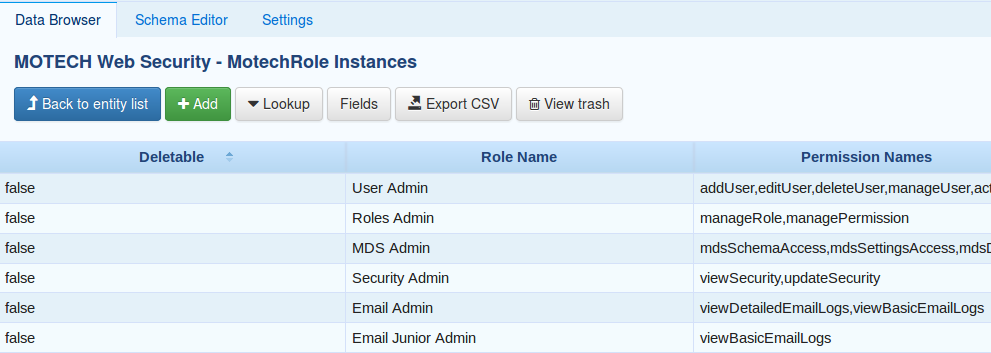
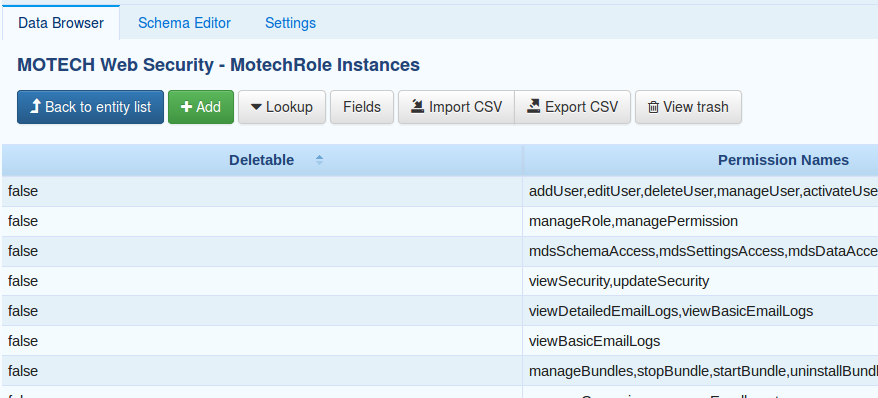
Fix broken table in modeling data with MDS topic
This fixes a broken table in the Modeling data with MDS topic.
I've also updated a picture of the data browser, to reflect
latest change (button Import CSV)

diff --git a/docs/source/get_started/model_data/model_data.rst b/docs/source/get_started/model_data/model_data.rst
@@ -1110,7 +1110,7 @@ you can perform several operations on the instances.
 +======================+=============================================================================================+
 |Back to entity list   |Brings you back to the main data browser view, listing entities                              |
 +----------------------+---------------------------------------------------------------------------------------------+
-|Add                   |Brings you to the Add instance dialog, where you can add an instance of an entity             |
+|Add                   |Brings you to the Add instance dialog, where you can add an instance of an entity            |
 +----------------------+---------------------------------------------------------------------------------------------+
 |Lookup                |Allows you to view only instances that match certain criteria. The definition of these       |
 |                      |criteria are set in the Advanced dialog on the Schema Editor                                 |
@@ -1118,8 +1118,11 @@ you can perform several operations on the instances.
 |Fields                |Allows you to display only certain fields in the browser. Useful when your entity has got    |
 |                      |a lot of fields, and you are only interested in few of them                                  |
 +----------------------+---------------------------------------------------------------------------------------------+
+|Import CSV            |This option allows the import of instances from a CSV file. If there is an instance with the |
+|                      |same id present both in the database and the file, it will get updated with the values from  |
+|                      |the file                                                                                     |
++----------------------+---------------------------------------------------------------------------------------------+
 |Export CSV            |This option allows the export of all instances of the selected entity to the CSV file        |
-+----------------------+-------------------------------------------------------------------------|Import CSV            |This option allows the import of instances from a CSV file                                   |
 +----------------------+---------------------------------------------------------------------------------------------+
 |View trash            |Allows to view all instances that have been moved to the trash, on the current entity schema |
 +----------------------+---------------------------------------------------------------------------------------------+
